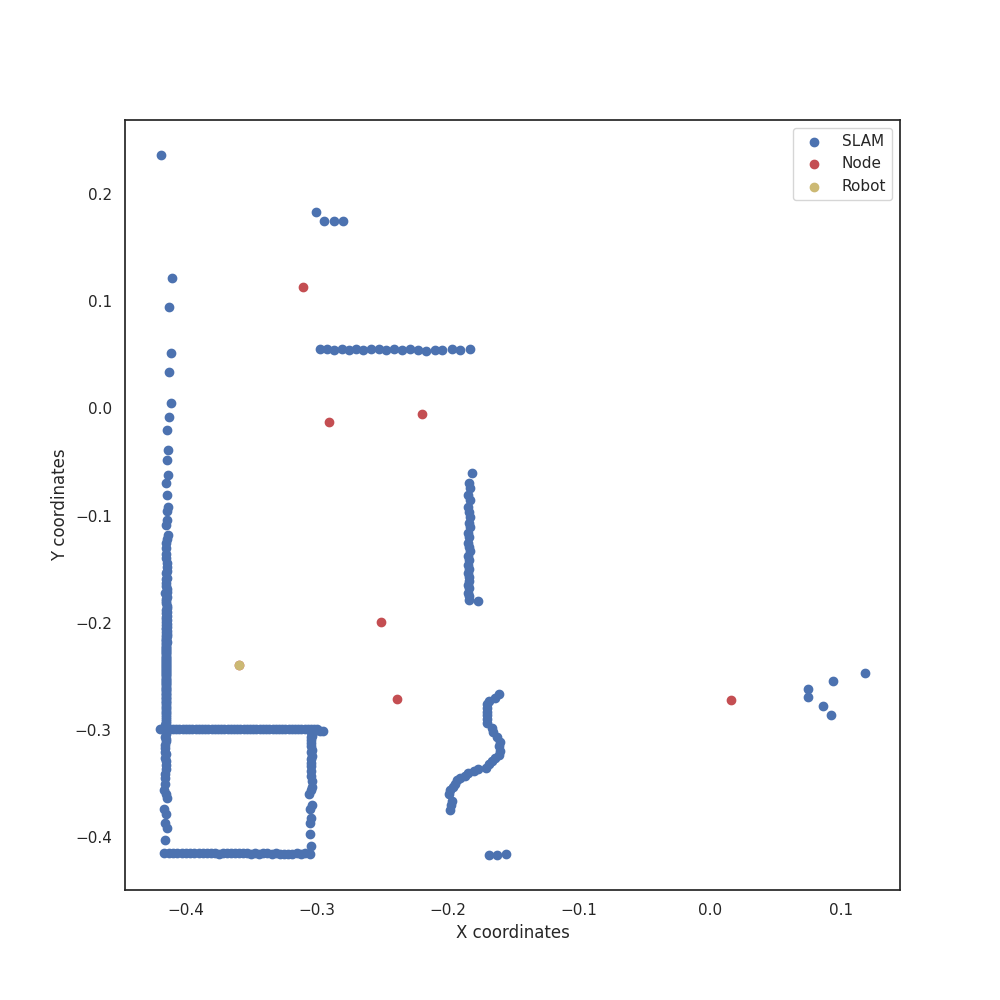
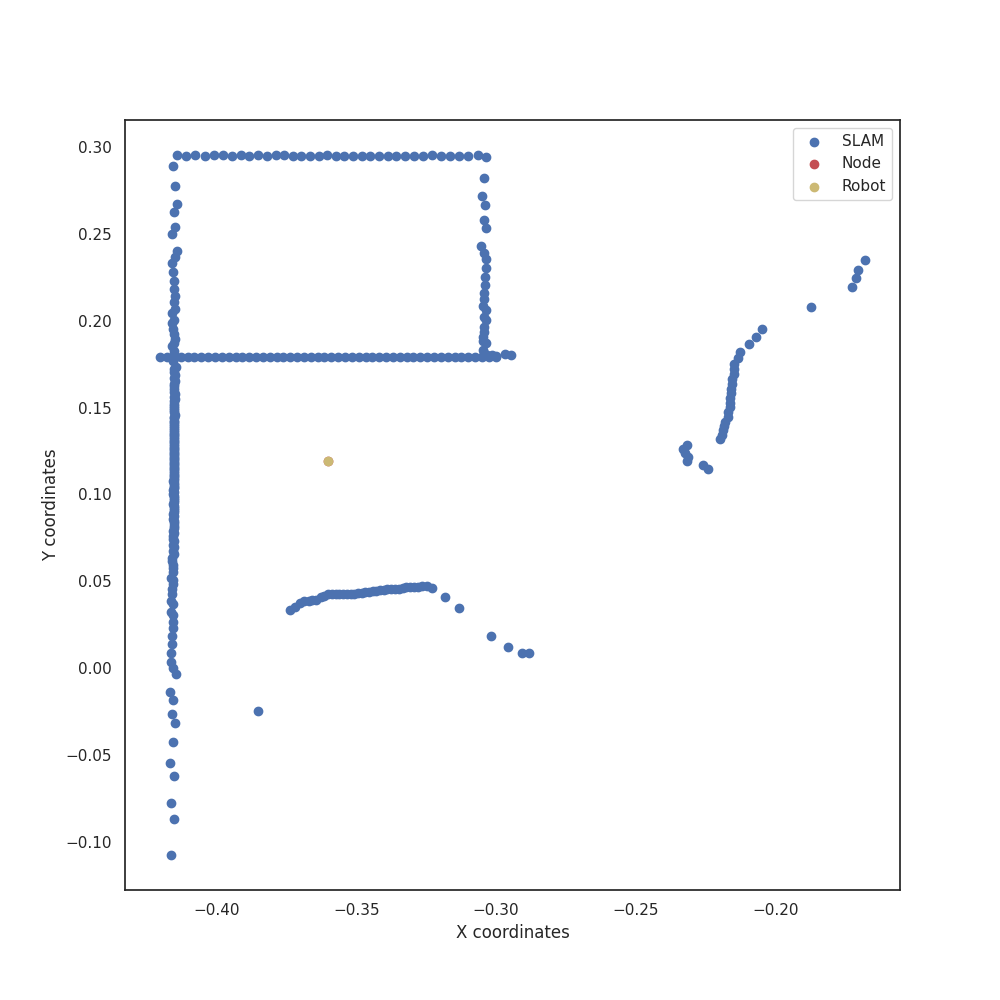
Arrumei casos que nao entram na sala 4 com orientações diferentes das que entraram

diff --git a/src/slam.py b/src/slam.py
@@ -3,7 +3,6 @@ from types_and_constants import Coordinate, TILE_SIZE
 from figure import fig
 import time
 import robot
-
 LIDAR_LIMIT =  TILE_SIZE * 8
 
 condicao = True
@@ -35,13 +34,14 @@ class Slam:
         self.list_y_atual = []
         if condicao : 
             self.atualizar_start_angle(robot_orientation)
-            LIDAR_LIMIT = LIDAR_LIMIT/2 # Atualiza o LIDAR_LIMIT PARA MENORAR O CAMPO DE VISÃO DO ROBÔ APOS O PRIMEIRO MOVIMENTO
+            LIDAR_LIMIT = LIDAR_LIMIT/4 # Atualiza o LIDAR_LIMIT PARA MENORAR O CAMPO DE VISÃO DO ROBÔ APOS O PRIMEIRO MOVIMENTO
+
             condicao = False
         
         
         for side_angle, distance in side_angle_to_distance_mapper.items():  
             if distance == float("inf"):
-                continue
+                continue    
             if distance < LIDAR_LIMIT : 
                 corrected_angle = side_angle + self.start_angle + orientation
 

diff --git a/src/slam_navigation.py b/src/slam_navigation.py
@@ -26,6 +26,7 @@ def get_slam_list() -> list:
 
 
 
+
 # Classe principal de navegação
 class Navigation:
     def __init__(self) -> None:
@@ -248,6 +249,17 @@ class Navigation:
             self.create_wall(robot)
         else: self.current_node = current_node
         
+                    # Turn to the direction of the entrance
+        
+        side_distance = robot.lidar.get_distances_by_side_angle_AUGUSTO()
+
+        side_angle = {'front' : side_distance[0], 'left' : side_distance[4.7124], 'right' : side_distance[1.5708]}
+        if side_angle['front'] > TILE_SIZE:
+            pass
+        elif side_angle['left'] > TILE_SIZE:
+            robot.rotate_90_left()
+        elif side_angle['right'] > TILE_SIZE:
+            robot.rotate_90_right()
         if not self.current_node.node_visited:
             self.current_node.visit_node()
             self.stack_visited_node.append(self.current_node)

diff --git a/src/solve_map.py b/src/solve_map.py
@@ -55,17 +55,8 @@ def solve_map(robot: Robot, debug_info: DebugInfo, maze: Maze) -> None:
     
     print("Chegou na sala 4")
 
-    # Turn to the direction of the entrance
     
-    side_distance = robot.lidar.get_distances_by_side_angle_AUGUSTO()
-    
-    side_angle = {'front' : side_distance[0], 'left' : side_distance[4.7124], 'right' : side_distance[1.5708]}
-    if side_angle['front'] > TILE_SIZE:
-        pass
-    elif side_angle['left'] > TILE_SIZE:
-        robot.rotate_90_left()
-    elif side_angle['right'] > TILE_SIZE:
-        robot.rotate_90_right()
+
     
     
         

diff --git a/auxiliar_codes/log_client/data_receiver_augusto.py b/auxiliar_codes/log_client/data_receiver_augusto.py
@@ -10,8 +10,8 @@ PORT = 5555
 LOG_PATH = os.getenv("LOG_PATH", "./.logs/log.txt")
 
 # Defina o diretório de upload
-#UPLOAD_FOLDER = '/home/alunoc/git_projects/LARCv1/SLAM_IMAGES' # PC DO ETAPA
-UPLOAD_FOLDER = r"C:\Users\Pichau\Desktop\LARCV1\SLAM_IMAGES"  #Meu PC
+UPLOAD_FOLDER = '/home/alunoc/git_projects/LARCv1/SLAM_IMAGES' # PC DO ETAPA
+#UPLOAD_FOLDER = r"C:\Users\Pichau\Desktop\LARCV1\SLAM_IMAGES"  #Meu PC
 app.config['UPLOAD_FOLDER'] = UPLOAD_FOLDER
 
 # Certifique-se de que o diretório de upload existe
